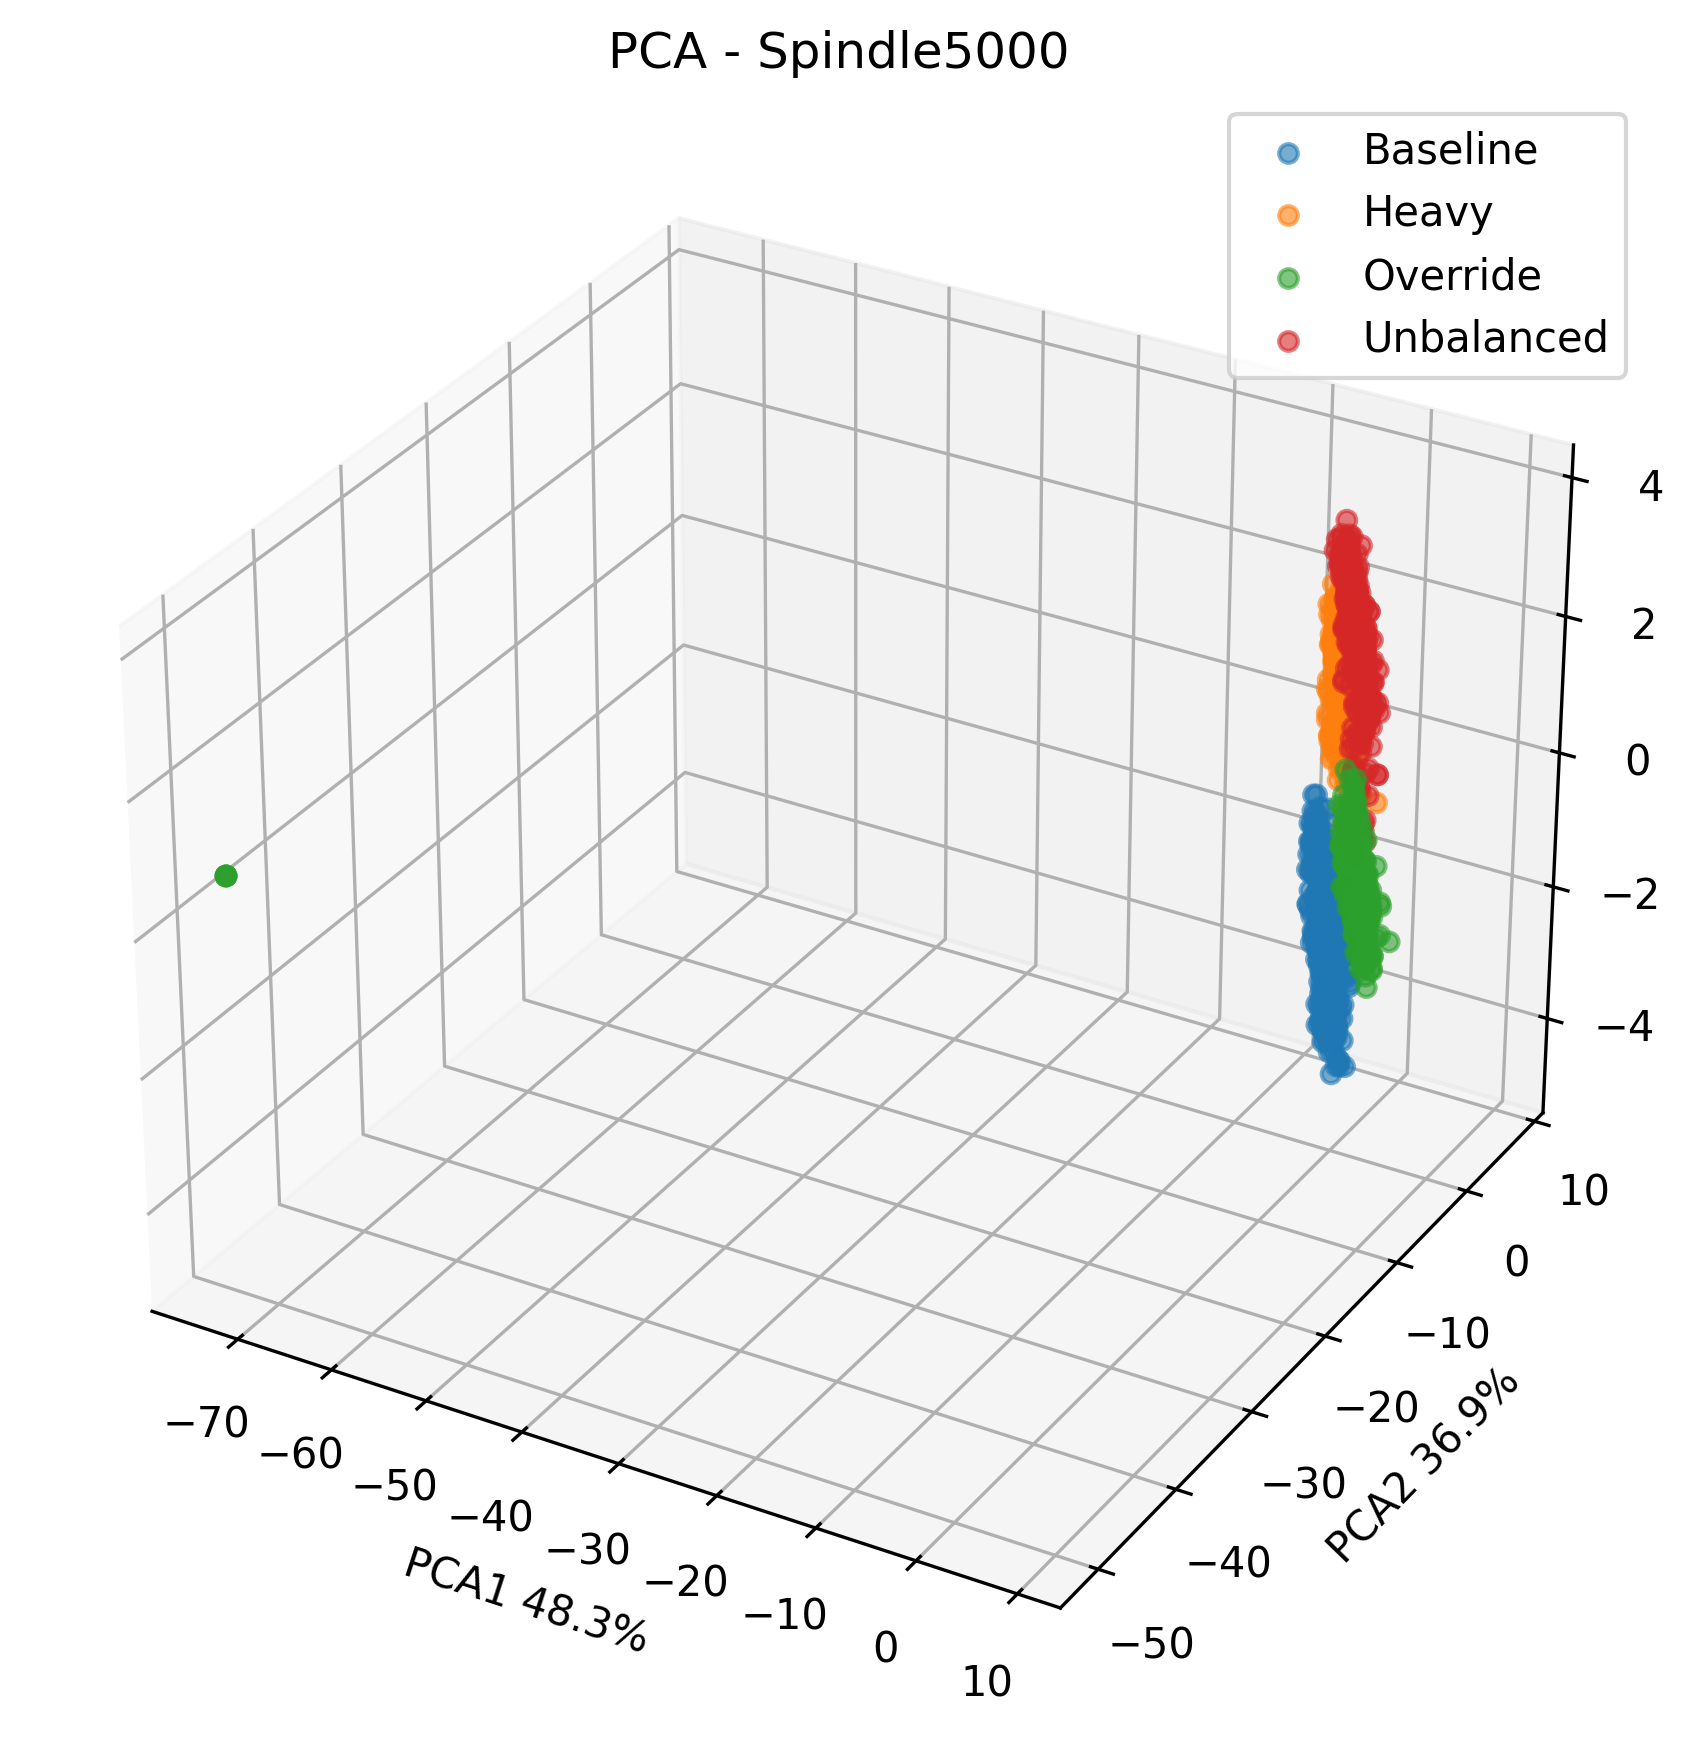
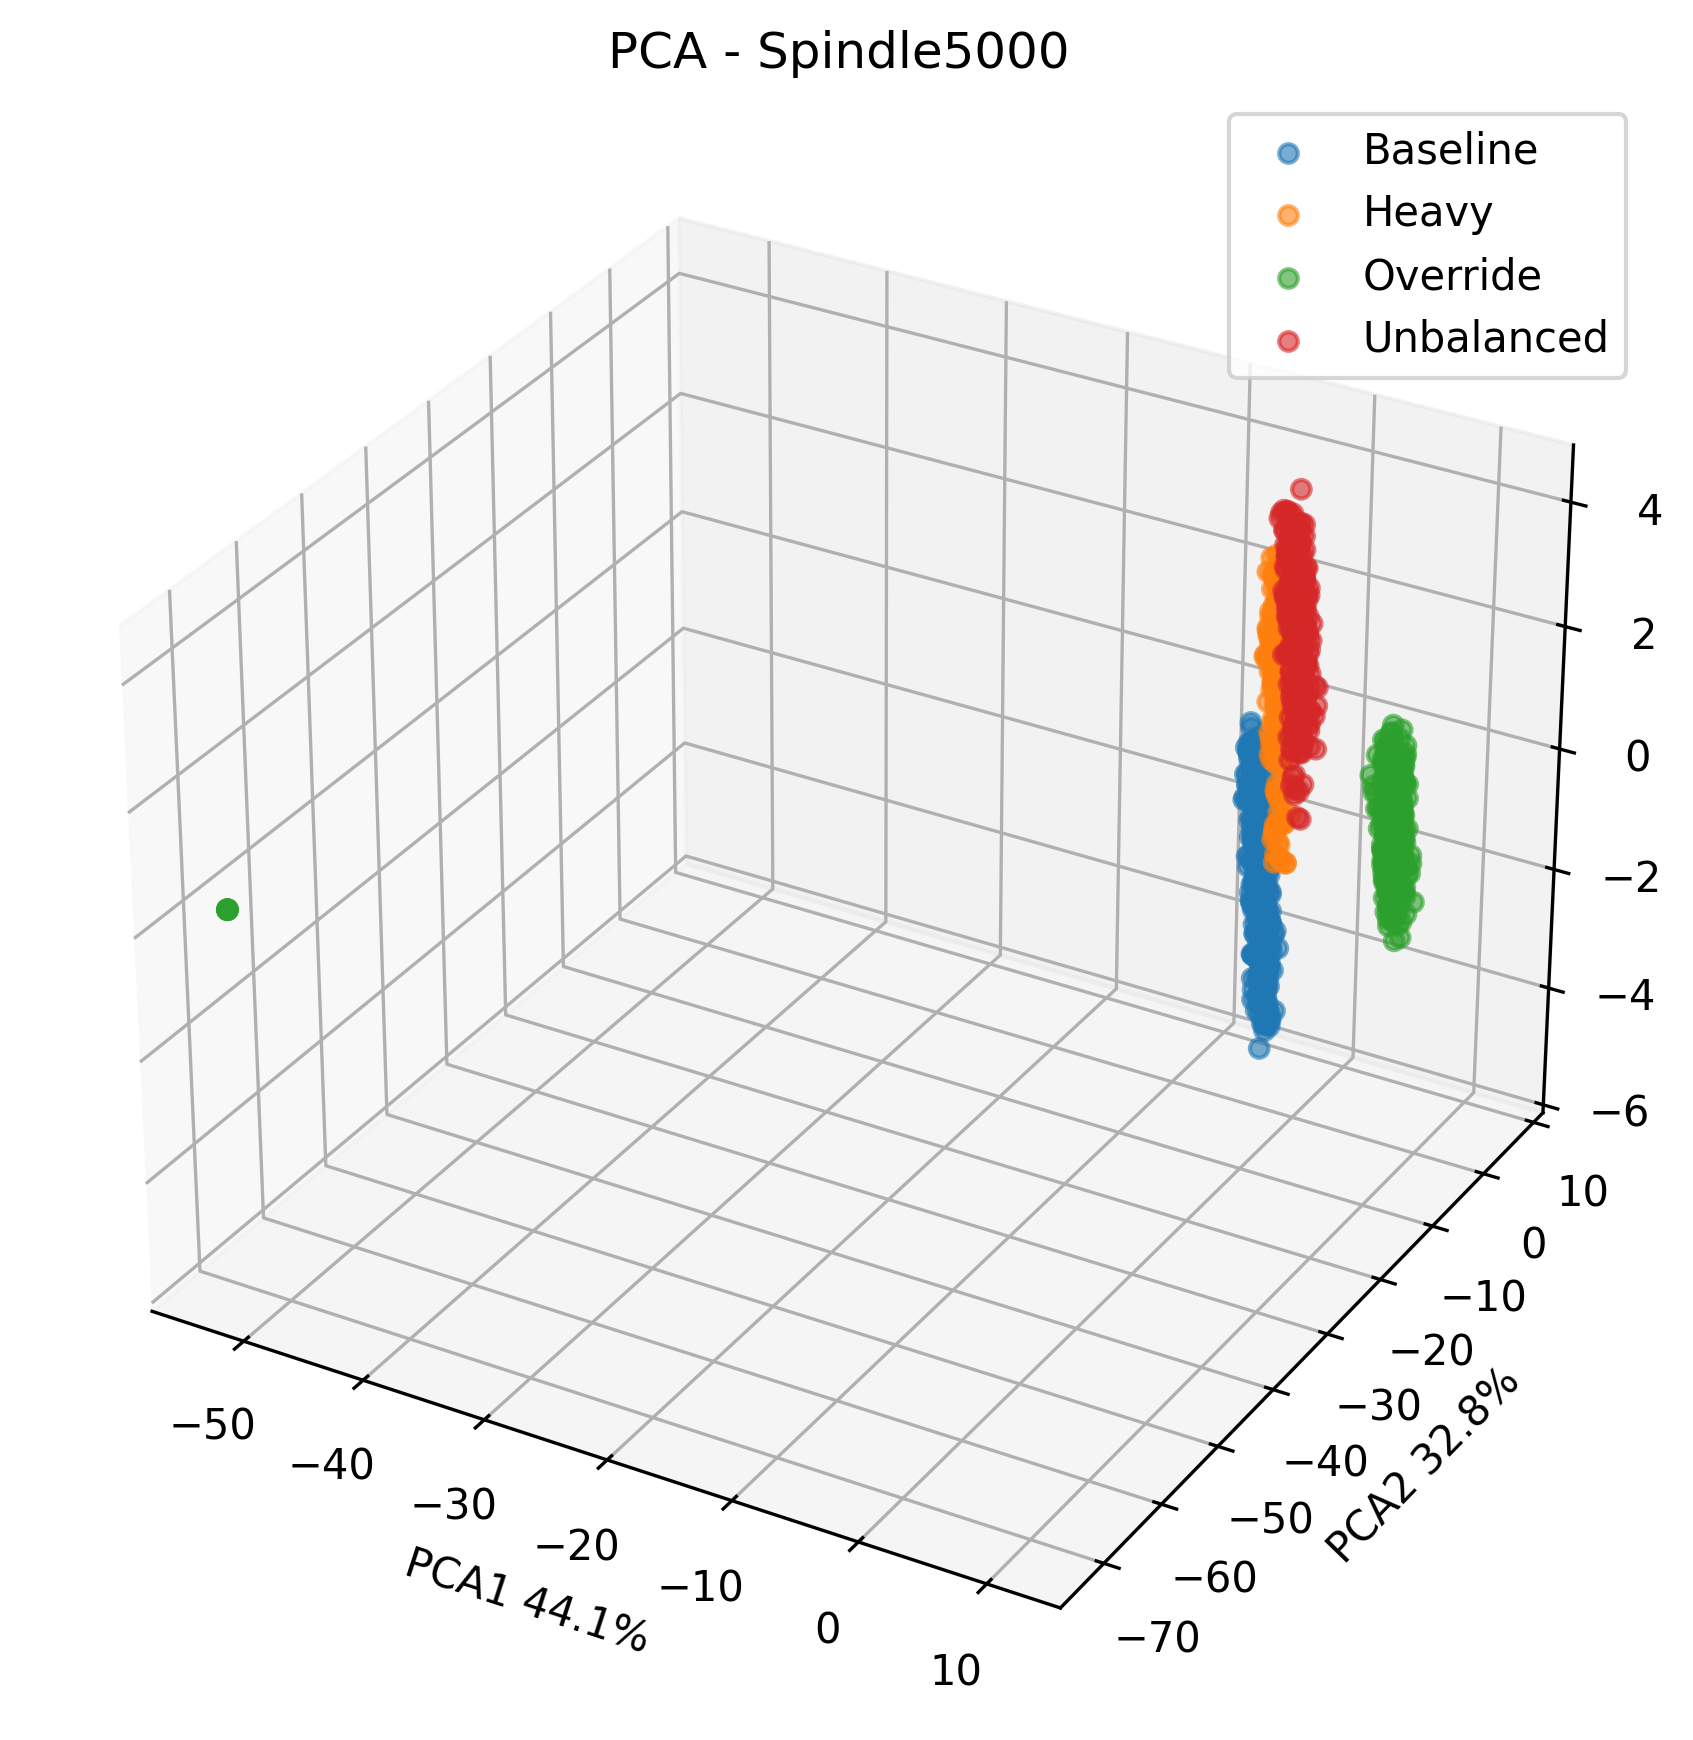
Fix NaN handling in skewness and kurtosis feature extraction
Resolved issue where some Spindle5000 runs produced NaN values for
PlateLFAcc and other kurtosis/skewness features, causing valid runs
to be removed before PCA processing.

diff --git a/src/calculate_Features.py b/src/calculate_Features.py
@@ -145,10 +145,13 @@ def extract_features(results):
         rows[key][f"{variable}_mean"] = np.mean(signal)
         rows[key][f"{variable}_rms"] = rms
         rows[key][f"{variable}_std"] = np.std(signal)
-        rows[key][f"{variable}_kurtosis"] = kurtosis(signal)
-        rows[key][f"{variable}_skewness"] = skew(signal)
         rows[key][f"{variable}_peak_to_peak"] = np.ptp(signal)
         rows[key][f"{variable}_energy"] = np.mean(signal**2)
+
+        # Some runs return NaN skewness and kurtosis if std is zero
+        # Replace NaNs with zeros to prevent filtering out these values during PCA
+        rows[key][f"{variable}_kurtosis"] = np.nan_to_num(kurtosis(signal))
+        rows[key][f"{variable}_skewness"] = np.nan_to_num(skew(signal))
 
         # Add factors
         rows[key][f"{variable}_crest_factor"] = max_abs / rms_safe

diff --git a/src/principal_Components.py b/src/principal_Components.py
@@ -129,7 +129,7 @@ def plot_pca(X_pca, y_train, pcas):
     Scatter plots are saved in the 'plots' folder.
     """
 
-    save_dir = Path("../plots")
+    save_dir = Path("plots")
     save_dir.mkdir(exist_ok=True)
 
     for trial_name, X_trial_pca in X_pca.items():
@@ -164,7 +164,7 @@ def plot_pca(X_pca, y_train, pcas):
 
 def main():
 
-    X, y = prepare_data("../features.csv")
+    X, y = prepare_data("features.csv")
 
     results = compute_pca(X, y)
 